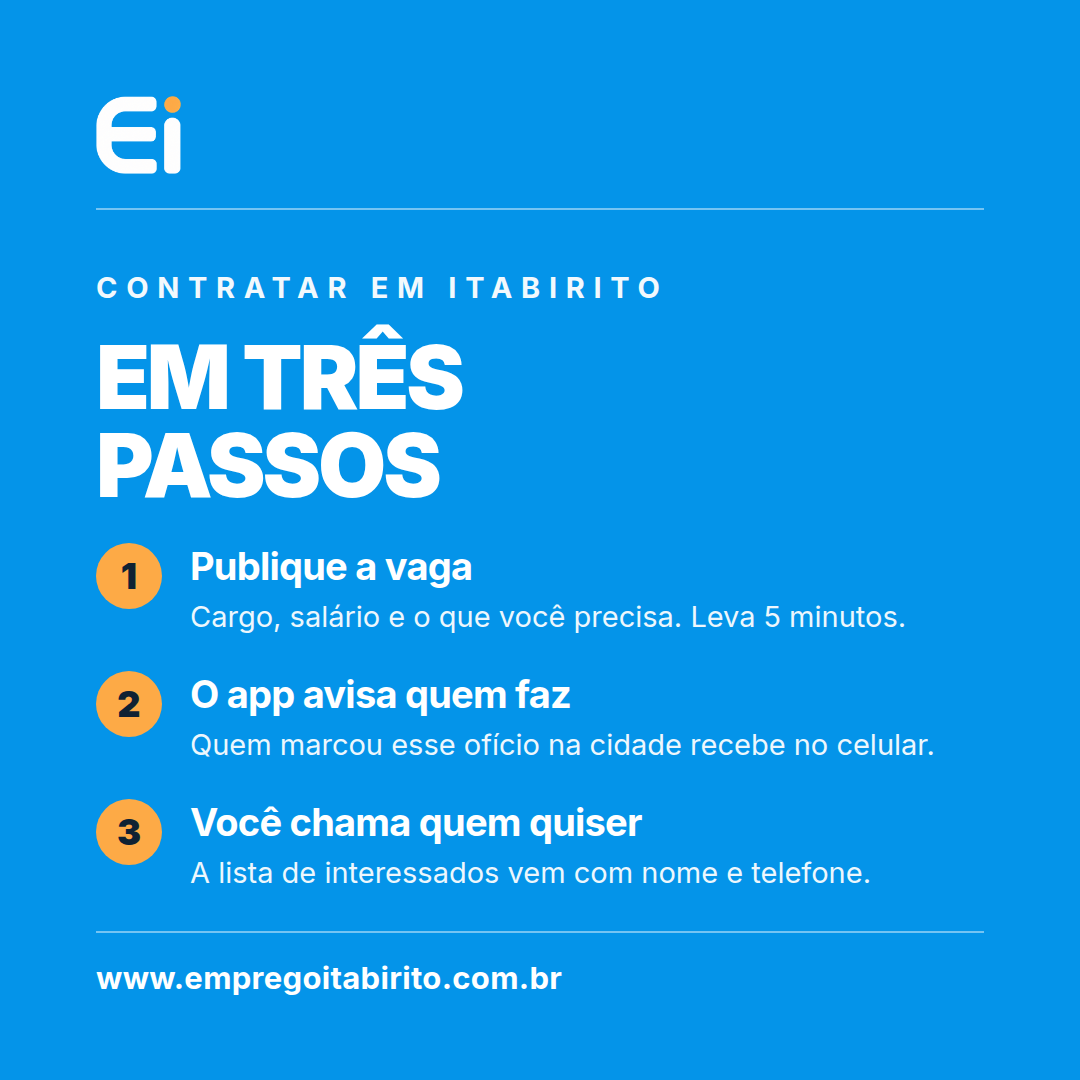
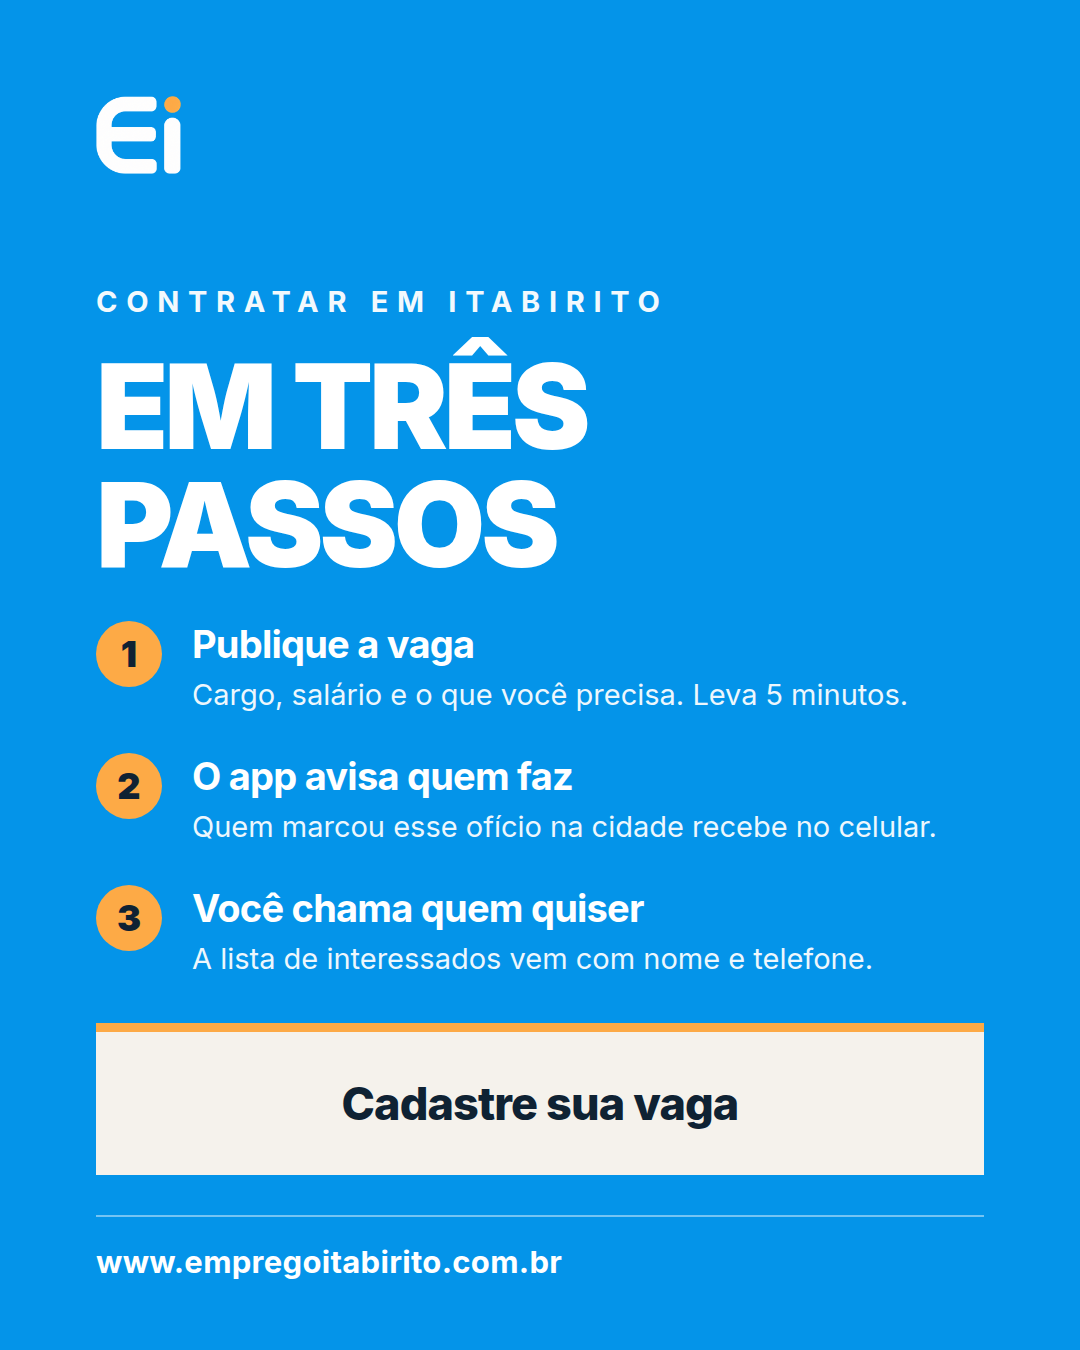
As três artes em 1080×1350, o tamanho que a série já usa
A dona: "faça tamanho post."

Fui ver em que medida as artes que JÁ existem no repositório são geradas,
em vez de escolher pelo nome: `artes_ei.py` diz `L, A = 1080, 1350`. Era
esse o "post" — o retrato do feed, não o quadrado.

As peças 1 e 3 já estavam. A dos três passos era 1080×1080 e passou a
1350: o título voltou ao corpo cheio, os passos ganharam ar e ela recebeu
a mesma caixa de chamada das outras duas, que antes não tinha.

MEDIDO, E POR UM MOTIVO

Ao esticar a peça, a folga abaixo do endereço foi a ZERO — o site
encostado na borda de baixo. Não dava para ver na miniatura; apareceu ao
medir a distância em pixels. As três agora têm 80, 70 e 84px.

Claude-Session: https://claude.ai/code/session_01Ny3vGTBTESQozK9kQFshbX

Changed region(s): [[0.0917, 0.2139, 0.9167, 0.9472], [0.0917, 0.0611, 0.1833, 0.1833], [0.6417, 0.4889, 0.825, 0.5194]]

diff --git a/artes/artes.html b/artes/artes.html
@@ -10,8 +10,7 @@
 *{margin:0;padding:0;box-sizing:border-box}
 body{background:#333;font-family:Inter,sans-serif;-webkit-font-smoothing:antialiased}
 .arte{background:var(--azul);color:#fff;padding:96px 96px 84px;display:flex;flex-direction:column;position:relative;overflow:hidden}
-.p1,.p3{width:1080px;height:1350px}
-.p2{width:1080px;height:1080px}
+.p1,.p2,.p3{width:1080px;height:1350px}
 .marca{height:78px;width:auto;align-self:flex-start;flex:0 0 auto;display:block}
 .fio{height:2px;background:rgba(255,255,255:.45);background:rgba(255,255,255,.45);margin:34px 0 0}
 .olho{font-size:29px;font-weight:700;letter-spacing:.30em;margin-bottom:20px;opacity:.95}
@@ -19,10 +18,10 @@ body{background:#333;font-family:Inter,sans-serif;-webkit-font-smoothing:antiali
 .sub{font-size:47px;font-weight:700;line-height:1.22;letter-spacing:-.02em;margin-top:34px}
 .apoio{font-size:33px;font-weight:400;line-height:1.45;margin-top:26px;opacity:.95;max-width:850px}
 .cta{background:var(--creme);color:var(--tinta);border-top:9px solid var(--laranja);padding:44px 40px;text-align:center;font-size:45px;font-weight:800;letter-spacing:-.02em}
-.pe{margin-top:auto}
+.pe{margin-top:auto;padding-top:44px}
 .site{font-size:31px;font-weight:700;letter-spacing:.01em;padding-top:26px;border-top:2px solid rgba(255,255,255,.45)}
 /* os tres passos */
-.passo{display:flex;align-items:flex-start;gap:28px;margin-top:34px}
+.passo{display:flex;align-items:flex-start;gap:30px;margin-top:38px}
 .num{flex:0 0 auto;width:66px;height:66px;border-radius:50%;background:var(--laranja);color:var(--tinta);
      font-size:36px;font-weight:900;display:flex;align-items:center;justify-content:center}
 .pt{font-size:38px;font-weight:700;line-height:1.25;letter-spacing:-.02em}
@@ -53,14 +52,17 @@ body{background:#333;font-family:Inter,sans-serif;-webkit-font-smoothing:antiali
 <div class="arte p2" id="a2">
   <img class="marca" src="file:///home/user/Nuvem-Lorena/apps/profissionais/public/marca-ei.png">
   <div class="fio"></div>
-  <div style="margin-top:60px">
+  <div style="margin-top:76px">
     <div class="olho">CONTRATAR EM ITABIRITO</div>
-    <div class="titulao" style="font-size:88px">Em três<br>passos</div>
+    <div class="titulao">Em três<br>passos</div>
     <div class="passo"><div class="num">1</div><div><div class="pt">Publique a vaga</div><div class="pn">Cargo, salário e o que você precisa. Leva 5 minutos.</div></div></div>
     <div class="passo"><div class="num">2</div><div><div class="pt">O app avisa quem faz</div><div class="pn">Quem marcou esse ofício na cidade recebe no celular.</div></div></div>
     <div class="passo"><div class="num">3</div><div><div class="pt">Você chama quem quiser</div><div class="pn">A lista de interessados vem com nome e telefone.</div></div></div>
   </div>
-  <div class="pe"><div class="site" style="margin-top:34px">www.empregoitabirito.com.br</div></div>
+  <div class="pe">
+    <div class="cta">Cadastre sua vaga</div>
+    <div class="site" style="margin-top:40px">www.empregoitabirito.com.br</div>
+  </div>
 </div>
 
 <!-- ══ PEÇA 3 — com a promoção ══ -->

diff --git a/artes/LEIA-ME.md b/artes/LEIA-ME.md
@@ -5,8 +5,19 @@ As três peças chamando o empresário a publicar vaga, feitas em 10/09.
 | Arquivo | Tamanho | Para quê |
 |---|---|---|
 | `ei-empresas-1-publique-sua-vaga.png` | 1080×1350 | a principal — o app vai atrás das pessoas |
-| `ei-empresas-2-em-tres-passos.png` | 1080×1080 | como funciona, para quem ainda não entendeu |
+| `ei-empresas-2-em-tres-passos.png` | 1080×1350 | como funciona, para quem ainda não entendeu |
 | `ei-empresas-3-30-dias-gratis.png` | 1080×1350 | a promoção — **só postar com a oferta ligada** |
+
+## O tamanho é 1080×1350, e não foi escolha de gosto
+
+É a medida que `apps/profissionais/scripts/artes_ei.py` já usa (`L, A =
+1080, 1350`). As peças precisam empilhar num carrossel com as que já
+existem — duas medidas diferentes é o mesmo pulo que aquele arquivo foi
+escrito para evitar.
+
+A folga abaixo do endereço é medida, não olhada: 80, 70 e 84px. A peça
+dos três passos chegou a sair com ZERO (o endereço encostado na borda) e
+só apareceu ao medir.
 
 ## Para refazer ou mudar uma frase
 
